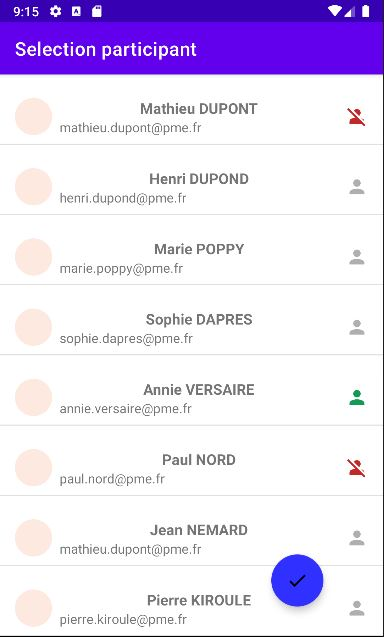
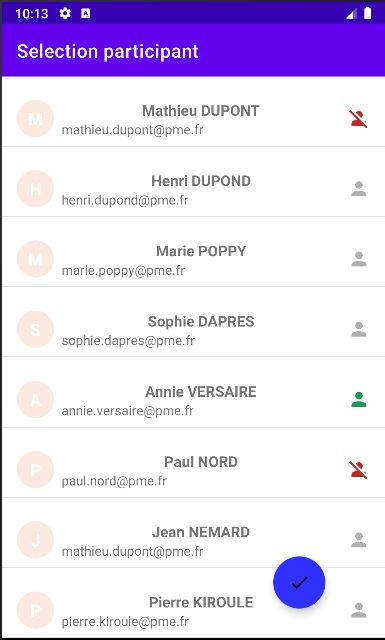
Ajout bis nouvelle indication et maj documentation

diff --git a/app/src/main/java/com/projet4/maru/ui/meeting/MyCoworkerRecyclerViewAdapter.java b/app/src/main/java/com/projet4/maru/ui/meeting/MyCoworkerRecyclerViewAdapter.java
@@ -14,7 +14,6 @@ import com.projet4.maru.di.DI;
 import com.projet4.maru.model.Participant;
 import com.projet4.maru.service.MaReuApiService;
 
-import java.util.ArrayList;
 import java.util.Calendar;
 import java.util.List;
 
@@ -78,12 +77,14 @@ public class MyCoworkerRecyclerViewAdapter extends RecyclerView.Adapter<MyCowork
     }
 
     public class ViewHolder extends RecyclerView.ViewHolder {
+        public final TextView initial;
         public final TextView coworkerText;
         public final TextView coworkerTextSuit;
         public final ImageButton itemCoworkerSelectButton;
 
         public ViewHolder(View view) {
             super(view);
+            initial = view.findViewById((R.id.initial));
             coworkerText = view.findViewById(R.id.coworkerText);
             coworkerTextSuit = view.findViewById(R.id.coworkerTextSuit);
             itemCoworkerSelectButton = view.findViewById(R.id.item_coworker_select_button);
@@ -92,6 +93,7 @@ public class MyCoworkerRecyclerViewAdapter extends RecyclerView.Adapter<MyCowork
         public void displayCoworker(Participant participant) {
             coworkerText.setText(participant.getName());
             coworkerTextSuit.setText(participant.getMailAddresses());
+            initial.setText(participant.getName().substring(0,1).toUpperCase());
 
             if (participantsList.contains(participant)) {
                 itemCoworkerSelectButton.setImageResource(R.drawable.ic_baseline_person_green_24);
